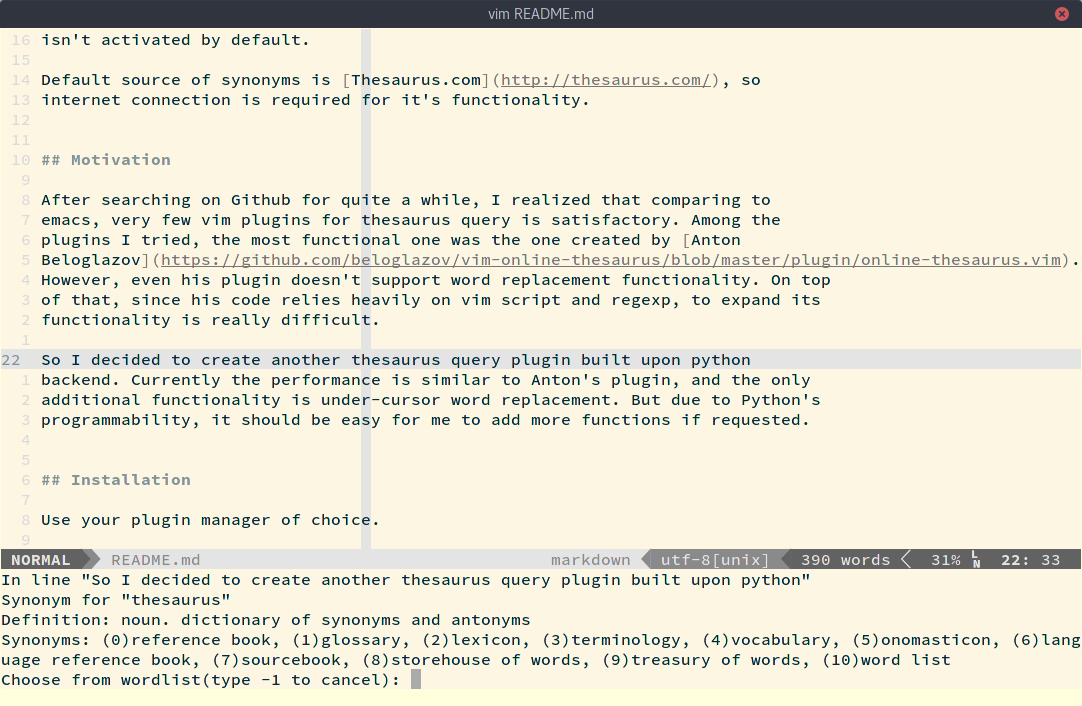
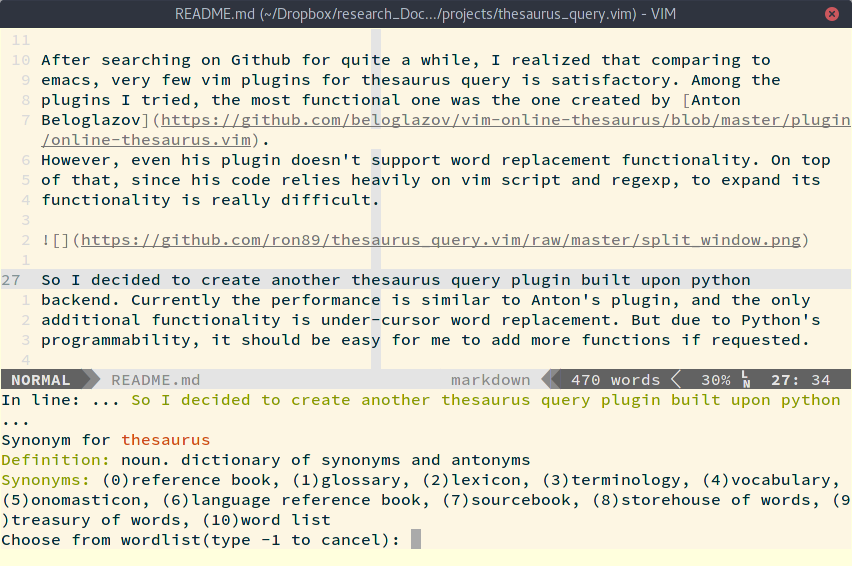
update README.md and screenshots

diff --git a/README.md b/README.md
@@ -77,11 +77,6 @@ yet.
 1. on NeoVim, display synonym list on split buffer raise out_of_range
    exception. It could be caused by the change of python API. The function
    works on Vim just fine.
-2. synonym candidate list is currently displayed in the form of echoed message
-   rather than buffer. This could temporary disrupt the window arrangment,
-   especially when the synonym list is very long. I am currently thinking about
-   how to improve the user experience or use some better meathods altogether.
-
 
 ## TODO List
 1. Package the python code better. I was learning the basics of the vim-python
